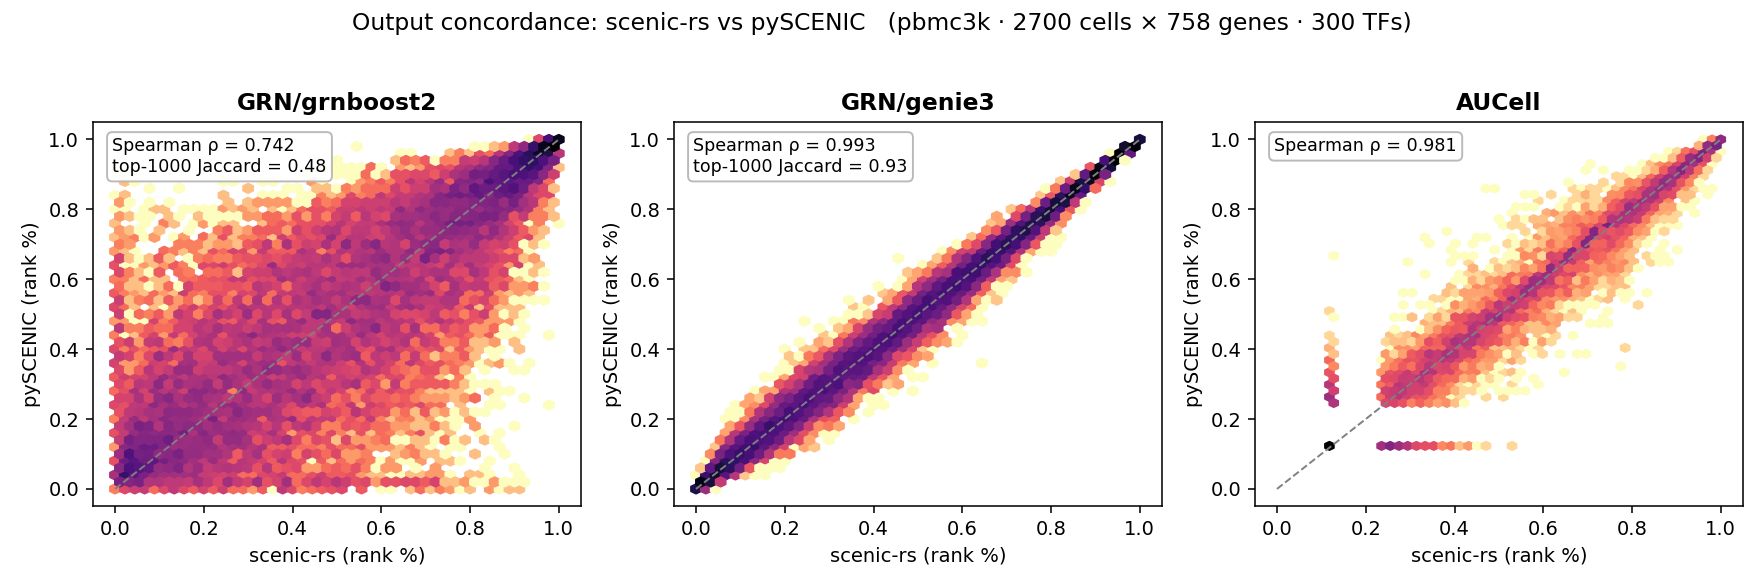
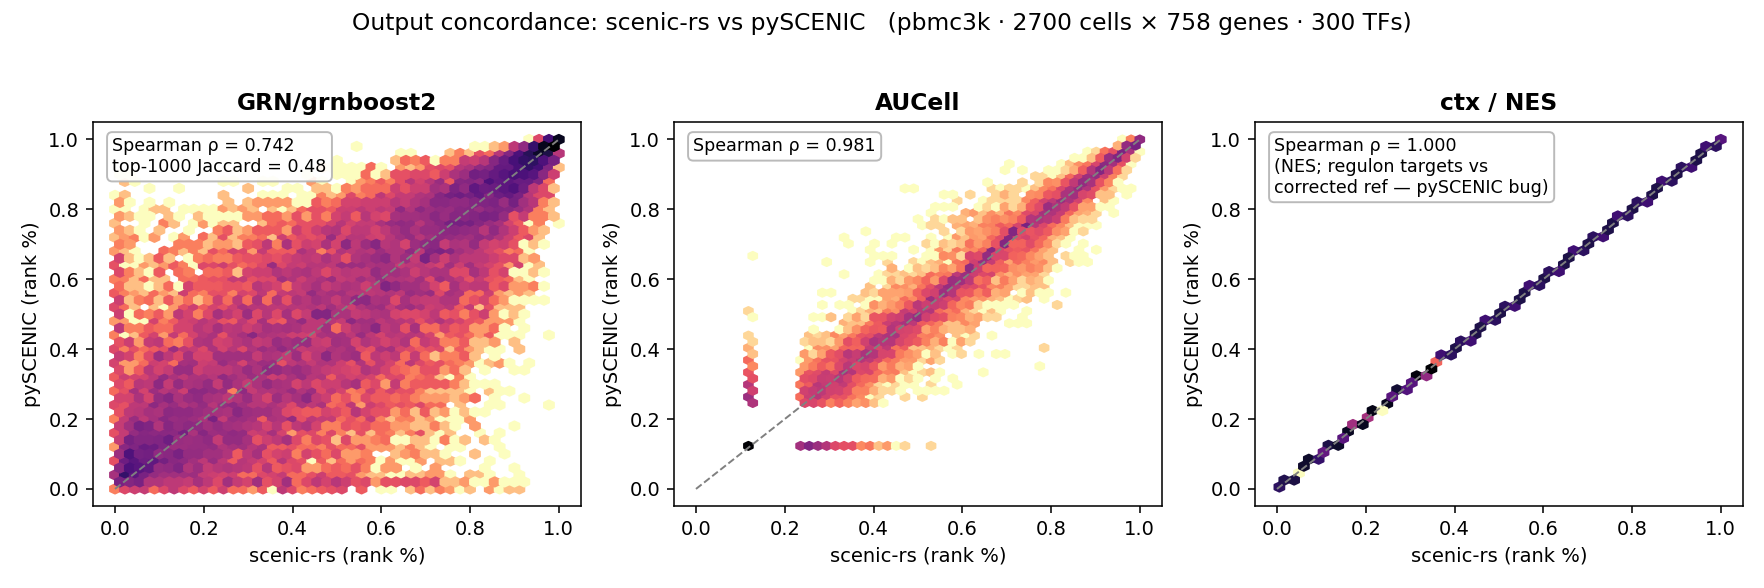
Consolidate benchmark figures: unified scaling plots + ctx concordance
- plot_mem_benchmark.py now renders ONE mem_scaling.png and ONE time_scaling.png
  covering all steps (GRNBoost2, GENIE3, ctx, AUCell) from both mem_results.json
  and ctx_bench_results.json; removes the separate plot_ctx_benchmark.py /
  ctx_scaling.png.
- Drop the single-core performance.png bar chart (misleading for the stochastic
  GRN step, whose ratio flips with core count) — time_scaling.png supersedes it.
- grn_per_target.png: explicit legend for every line (per-step median dashed +
  stochastic ceiling dotted).
- concordance.png: add a ctx panel (concordance_ctx.py) comparing per-(module,
  motif) NES vs pySCENIC — Spearman 1.0, max diff 1.4e-13 over 352k pairs. This
  is bug-free (NES is computed before pySCENIC's leading-edge misalignment);
  regulon target genes are validated against a corrected reference instead.

Changed region(s): [[0.3741, 0.1531, 0.6548, 0.8571], [0.7171, 0.2143, 0.9977, 0.8265], [0.8107, 0.1531, 0.9042, 0.1837]]

diff --git a/bench/concordance_ctx.py b/bench/concordance_ctx.py
@@ -1,0 +1,82 @@
+"""ctx concordance data: scenic-rs vs pySCENIC per-(module,motif) NES.
+
+The NES/AUC are computed BEFORE pySCENIC's leading-edge misalignment bug, so this
+is a clean, bug-free comparison of the enrichment math (it should be ~perfect).
+Regulon target-gene membership is NOT comparable to pySCENIC (its leading edges
+are corrupted) and is instead validated against a corrected reference in
+bench/validate_ctx_regulons.py.
+
+Writes bench/cache/ctx_concordance.json (Spearman/Pearson + a scatter sample) for
+plot_benchmark.py to add a ctx panel to concordance.png.
+
+    PYTHONPATH=python ~/venvs/pyscenic_clean/bin/python bench/concordance_ctx.py
+"""
+import json
+import os
+
+import numpy as np
+
+from pyscenic.utils import modules_from_adjacencies, load_motif_annotations
+from ctxcore.rnkdb import FeatherRankingDatabase
+from ctxcore.recovery import enrichment4features
+from ctxcore.genesig import GeneSignature
+from scipy.stats import spearmanr, pearsonr
+import scenic_rs._core as rs
+
+HERE = os.path.dirname(os.path.abspath(__file__))
+CACHE = os.path.join(HERE, "cache")
+RES = os.path.expanduser(
+    "~/jupyternotebooks/paper_github_code/sc_rna_seq/scenic_out/resources")
+DBF = os.path.join(RES, "hg38_500bp_up_100bp_down_full_tx_v10_clust.genes_vs_motifs.rankings.feather")
+TBL = os.path.join(RES, "motifs-v10nr_clust-nr.hgnc-m0.001-o0.0.tbl")
+RT, AUC = 5000, 0.05
+
+
+def main():
+    db_py = FeatherRankingDatabase(DBF, name="x")
+    db_rs = rs.RankingDb(DBF, "x")
+    ann = load_motif_annotations(TBL)
+    dg = set(db_py.genes)
+    ann_tfs = [t for t in ann.index.get_level_values(0).unique() if t in dg]
+    rng = np.random.default_rng(0)
+    tfs = sorted(rng.choice(ann_tfs, 20, replace=False).tolist())
+    targets = sorted(rng.choice(sorted(dg - set(tfs)), 200, replace=False).tolist())
+    genes = sorted(set(tfs) | set(targets))
+    rows = [(str(tf), str(t), float(rng.exponential(1.0) + 1e-3))
+            for tf in tfs for t in rng.choice(targets, 60, replace=False)]
+    import pandas as pd
+    adj = pd.DataFrame(rows, columns=["TF", "target", "importance"])
+    expr = rng.integers(0, 6, size=(150, len(genes))).astype(np.float32)
+    ex = pd.DataFrame(expr, index=[f"c{i}" for i in range(150)], columns=genes)
+    modules = modules_from_adjacencies(adj, ex, rho_mask_dropouts=False, keep_only_activating=True)
+
+    rs_all, py_all = [], []
+    for m in modules:
+        gl = list(m.genes)
+        # scenic-rs NES per motif
+        present, motifs_rs, _aucs, ness_rs = db_rs.enrich(gl, None, AUC)
+        rs_nes = dict(zip(motifs_rs, ness_rs))
+        # pyscenic NES per motif (bug-free enrichment math)
+        gs = GeneSignature(name=m.transcription_factor, gene2weight={g: 1.0 for g in gl})
+        edf = enrichment4features(db_py, gs, rank_threshold=RT, auc_threshold=AUC)
+        py_nes = edf[("Enrichment", "NES")]
+        for motif in py_nes.index:
+            if motif in rs_nes:
+                rs_all.append(rs_nes[motif]); py_all.append(float(py_nes[motif]))
+
+    rs_all = np.asarray(rs_all); py_all = np.asarray(py_all)
+    sp = float(spearmanr(rs_all, py_all).correlation)
+    pe = float(pearsonr(rs_all, py_all)[0])
+    md = float(np.max(np.abs(rs_all - py_all)))
+    rng2 = np.random.default_rng(0)
+    idx = rng2.choice(len(rs_all), min(20000, len(rs_all)), replace=False)
+    out = {"step": "ctx / NES", "n_modules": len(modules), "n_pairs": int(len(rs_all)),
+           "overall_spearman": sp, "overall_pearson": pe, "max_abs_diff": md,
+           "scatter": np.c_[rs_all[idx], py_all[idx]].tolist()}
+    json.dump(out, open(os.path.join(CACHE, "ctx_concordance.json"), "w"))
+    print(f"ctx NES concordance: Spearman={sp:.4f} Pearson={pe:.4f} "
+          f"max|diff|={md:.2e} over {len(rs_all)} (module,motif) pairs from {len(modules)} modules")
+
+
+if __name__ == "__main__":
+    main()

diff --git a/bench/plot_benchmark.py b/bench/plot_benchmark.py
@@ -11,6 +11,7 @@ import os
 import matplotlib
 matplotlib.use("Agg")
 import matplotlib.pyplot as plt
+from matplotlib.lines import Line2D
 import numpy as np
 from scipy.stats import rankdata
 
@@ -34,18 +35,29 @@ def _pct_rank(v):
 
 
 # ---------------------------- 1. concordance ----------------------------
-n = len(results)
+# Include a ctx panel if available. ctx compares per-(module,motif) NES vs pySCENIC
+# — the enrichment math, which pySCENIC computes correctly (its leading-edge bug is
+# downstream and doesn't affect NES). Regulon target genes are validated separately
+# against a corrected reference (bench/validate_ctx_regulons.py).
+conc = list(results)
+ctx_path = os.path.join(CACHE, "ctx_concordance.json")
+if os.path.exists(ctx_path):
+    conc.append(json.load(open(ctx_path)))
+
+n = len(conc)
 fig, axes = plt.subplots(1, n, figsize=(4.2 * n, 4.2), squeeze=False)
-for ax, r in zip(axes[0], results):
+for ax, r in zip(axes[0], conc):
     xy = np.array(r["scatter"])
     x, y = _pct_rank(xy[:, 0]), _pct_rank(xy[:, 1])
-    hb = ax.hexbin(x, y, gridsize=45, cmap="magma_r", bins="log", mincnt=1)
+    ax.hexbin(x, y, gridsize=45, cmap="magma_r", bins="log", mincnt=1)
     ax.plot([0, 1], [0, 1], "--", color="0.5", lw=1)
     ax.set_xlabel("scenic-rs (rank %)")
     ax.set_ylabel("pySCENIC (rank %)")
     txt = f"Spearman ρ = {r['overall_spearman']:.3f}"
     if "topk_jaccard" in r:
         txt += f"\ntop-1000 Jaccard = {r['topk_jaccard']['1000']:.2f}"
+    if str(r["step"]).startswith("ctx"):
+        txt += "\n(NES; regulon targets vs\ncorrected ref — pySCENIC bug)"
     ax.set_title(r["step"], fontweight="bold")
     ax.text(0.04, 0.96, txt, transform=ax.transAxes, va="top", fontsize=9,
             bbox=dict(boxstyle="round", fc="white", ec="0.7", alpha=0.9))
@@ -58,61 +70,35 @@ print("wrote concordance.png")
 # ------------------------- 2. GRN per-target Spearman -------------------------
 grn = [r for r in results if "per_target_spearman" in r]
 if grn:
-    fig, ax = plt.subplots(figsize=(6.5, 4.2))
+    fig, ax = plt.subplots(figsize=(6.8, 4.4))
     colors = ["#264653", "#2a9d8f", "#e9c46a"]
     for r, c in zip(grn, colors):
         per = np.array(r["per_target_spearman"], dtype=float)
         per = per[np.isfinite(per)]
         ax.hist(per, bins=np.linspace(-0.2, 1.0, 31), alpha=0.6, color=c,
-                label=f"{r['step']}  (median {np.median(per):.2f}, n={len(per)})")
+                label=f"{r['step']}  (median ρ={np.median(per):.2f}, n={len(per)})")
         ax.axvline(np.median(per), color=c, ls="--", lw=1.5)
-    ax.axvline(0.73, color="0.4", ls=":", lw=1.5,
-               label="sklearn-vs-sklearn ceiling (~0.73)")
+    ax.axvline(0.73, color="0.4", ls=":", lw=1.8)
+    # explicit legend entries for the two line styles (so dashed vs dotted is unambiguous)
+    style_handles = [
+        Line2D([0], [0], color="0.3", ls="--", lw=1.5,
+               label="dashed = per-step median ρ (colored to match its histogram)"),
+        Line2D([0], [0], color="0.4", ls=":", lw=1.8,
+               label="dotted = stochastic ceiling ρ≈0.73 (sklearn vs sklearn, same algo)"),
+    ]
+    h, _ = ax.get_legend_handles_labels()
     ax.set_xlabel("per-target Spearman ρ (scenic-rs vs pySCENIC importances)")
     ax.set_ylabel("# targets")
     ax.set_title(f"GRN per-target concordance   ({sub})", fontsize=11)
-    ax.legend(fontsize=8, loc="upper left")
+    ax.legend(handles=h + style_handles, fontsize=8, loc="upper left")
     fig.tight_layout()
     fig.savefig(os.path.join(FIG, "grn_per_target.png"), dpi=140)
     print("wrote grn_per_target.png")
 
 
-# ---------------------------- 3. performance ----------------------------
-steps = [r["step"] for r in results]
-t_py = [r["t_pyscenic"] for r in results]
-t_rs = [r["t_scenicrs"] for r in results]
-x = np.arange(len(steps))
-w = 0.38
-fig, ax = plt.subplots(figsize=(1.9 * len(steps) + 2, 4.6))
-ax.bar(x - w / 2, t_py, w, label="pySCENIC", color=PY)
-ax.bar(x + w / 2, t_rs, w, label="scenic-rs", color=RS)
-ax.set_yscale("log")
-ax.set_xticks(x)
-ax.set_xticklabels(steps)
-ax.set_ylabel("wall-clock (s, log scale)")
-ax.set_title(f"Per-step runtime, equal {meta['workers']} cores   ({sub})", fontsize=11)
-ax.legend()
-
-
-def speedup_label(s):
-    if s >= 2:
-        return f"{s:.0f}×\nfaster", "#1b7837"
-    if s >= 1.1:
-        return f"{s:.1f}×\nfaster", "#1b7837"
-    if s >= 0.9:
-        return "≈ par", "0.3"
-    return f"{1/s:.1f}×\nslower", "#b2182b"
-
-
-for xi, r in zip(x, results):
-    top = max(r["t_pyscenic"], r["t_scenicrs"])
-    lab, col = speedup_label(r["speedup"])
-    ax.text(xi, top * 1.3, lab, ha="center", va="bottom", fontsize=9,
-            fontweight="bold", color=col)
-ax.set_ylim(top=max(t_py) * 6)
-fig.tight_layout()
-fig.savefig(os.path.join(FIG, "performance.png"), dpi=140)
-print("wrote performance.png")
+# Per-step runtime at a single core count is intentionally NOT plotted: it's
+# misleading for the stochastic GRN step (the scenic-rs/pySCENIC ratio flips with
+# core count). Use time_scaling.png (wall-clock vs cores) from plot_mem_benchmark.py.
 
 # console summary table
 print("\nstep              pySCENIC   scenic-rs   speedup   Spearman")

diff --git a/bench/plot_mem_benchmark.py b/bench/plot_mem_benchmark.py
@@ -1,12 +1,16 @@
-"""Plot the scenic-rs vs pySCENIC memory/scaling sweep (reads bench/cache/mem_results.json).
+"""Unified scenic-rs vs pySCENIC scaling figures across ALL SCENIC steps.
 
-Produces, in bench/figures/:
-  - mem_scaling.png  : peak PSS (MB) vs core count, one panel per step
-  - time_scaling.png : wall-clock (s) vs core count, one panel per step
+Reads:
+  - bench/cache/mem_results.json     (GRNBoost2, GENIE3, AUCell; run mem_benchmark.py --sweep ... --genie3)
+  - bench/cache/ctx_bench_results.json (ctx/cisTarget; run benchmark_ctx.py --sweep ...)
 
-Run mem_benchmark.py with --sweep first, e.g.
-    python bench/mem_benchmark.py --sweep 16,48,96 --genie3
-    python bench/plot_mem_benchmark.py
+Produces, in bench/figures/ (one figure each, one panel per step):
+  - mem_scaling.png  : peak PSS (MB) vs core count
+  - time_scaling.png : wall-clock (s) vs core count
+
+Inputs differ per step (GRN/AUCell on pbmc3k; ctx on the hg38 ranking DB with
+synthetic modules) — noted in each panel — but the point is the SHAPE: scenic-rs
+threads share memory (flat); pySCENIC processes/dask workers don't (scales up).
 """
 import json
 import os
@@ -19,19 +23,29 @@ HERE = os.path.dirname(os.path.abspath(__file__))
 CACHE = os.path.join(HERE, "cache")
 FIG = os.path.join(HERE, "figures")
 os.makedirs(FIG, exist_ok=True)
+RS, PY = "#2a9d8f", "#e76f51"
 
-RS = "#2a9d8f"   # scenic-rs
-PY = "#e76f51"   # pySCENIC
+STEP_ORDER = ["grnboost2", "genie3", "ctx", "aucell"]
+TITLE = {"grnboost2": "GRN / GRNBoost2", "genie3": "GRN / GENIE3",
+         "ctx": "ctx / cisTarget", "aucell": "AUCell"}
 
-with open(os.path.join(CACHE, "mem_results.json")) as fh:
-    blob = json.load(fh)
-meta, rows = blob["meta"], blob["results"]
-sub = f"{meta['cells']} cells × {meta['genes']} genes · {meta['tfs']} TFs"
+rows = []
+notes = {}
 
-steps = []
-for r in rows:
-    if r["step"] not in steps:
-        steps.append(r["step"])
+if os.path.exists(os.path.join(CACHE, "mem_results.json")):
+    blob = json.load(open(os.path.join(CACHE, "mem_results.json")))
+    m = blob["meta"]
+    rows += blob["results"]
+    for s in ("grnboost2", "genie3", "aucell"):
+        notes[s] = f"pbmc3k · {m['cells']}×{m['genes']} · {m['tfs']} TFs"
+
+if os.path.exists(os.path.join(CACHE, "ctx_bench_results.json")):
+    blob = json.load(open(os.path.join(CACHE, "ctx_bench_results.json")))
+    m = blob["meta"]
+    rows += [{**r, "step": "ctx"} for r in blob["results"]]
+    notes["ctx"] = f"hg38 DB · {m['tfs']} TFs · {m.get('dbs', 1)} DB(s)"
+
+steps = [s for s in STEP_ORDER if any(r["step"] == s for r in rows)]
 workers = sorted({r["workers"] for r in rows})
 
 
@@ -40,31 +54,33 @@ def series(step, impl, key):
     return [by_w.get(w) for w in workers]
 
 
-def scaling_figure(key, ylabel, title, fname):
+def figure(key, ylabel, title, fname):
     n = len(steps)
-    fig, axes = plt.subplots(1, n, figsize=(4.2 * n, 4.0), squeeze=False)
+    fig, axes = plt.subplots(1, n, figsize=(3.7 * n, 4.0), squeeze=False)
     for ax, step in zip(axes[0], steps):
         for impl, color in (("scenic-rs", RS), ("pySCENIC", PY)):
             y = series(step, impl, key)
             ax.plot(workers, y, "-o", color=color, label=impl, lw=2, ms=6)
-        ax.set_title(step)
-        ax.set_xlabel("cores (rayon threads / dask workers)")
+        ax.set_title(f"{TITLE[step]}\n{notes.get(step, '')}", fontsize=10)
+        ax.set_xlabel("cores")
         ax.set_ylabel(ylabel)
         ax.set_xticks(workers)
         ax.set_ylim(bottom=0)
         ax.grid(alpha=0.3)
         ax.legend(frameon=False, fontsize=9)
-    fig.suptitle(f"{title}\n{sub}", fontsize=12)
-    fig.tight_layout(rect=(0, 0, 1, 0.92))
+    fig.suptitle(title, fontsize=12)
+    fig.tight_layout(rect=(0, 0, 1, 0.93))
     out = os.path.join(FIG, fname)
     fig.savefig(out, dpi=130)
-    print(f"wrote {out}")
+    print(f"wrote {out}  (steps: {', '.join(steps)})")
 
 
+if not rows:
+    raise SystemExit("no results found — run mem_benchmark.py --sweep ... --genie3 and benchmark_ctx.py --sweep ...")
 if len(workers) < 2:
-    print("only one core count in results — run mem_benchmark.py with --sweep for scaling curves")
+    print("only one core count — run the sweeps with --sweep for scaling curves")
 
-scaling_figure("peak_pss_mb", "peak PSS (MB)",
-               "Peak memory vs cores — threads share, processes don't", "mem_scaling.png")
-scaling_figure("secs", "wall-clock (s)",
-               "Wall-clock vs cores (end-to-end, incl. startup)", "time_scaling.png")
+figure("peak_pss_mb", "peak PSS (MB)",
+       "Peak memory vs cores — scenic-rs threads share, pySCENIC workers don't", "mem_scaling.png")
+figure("secs", "wall-clock (s)",
+       "Wall-clock vs cores (end-to-end, incl. startup)", "time_scaling.png")